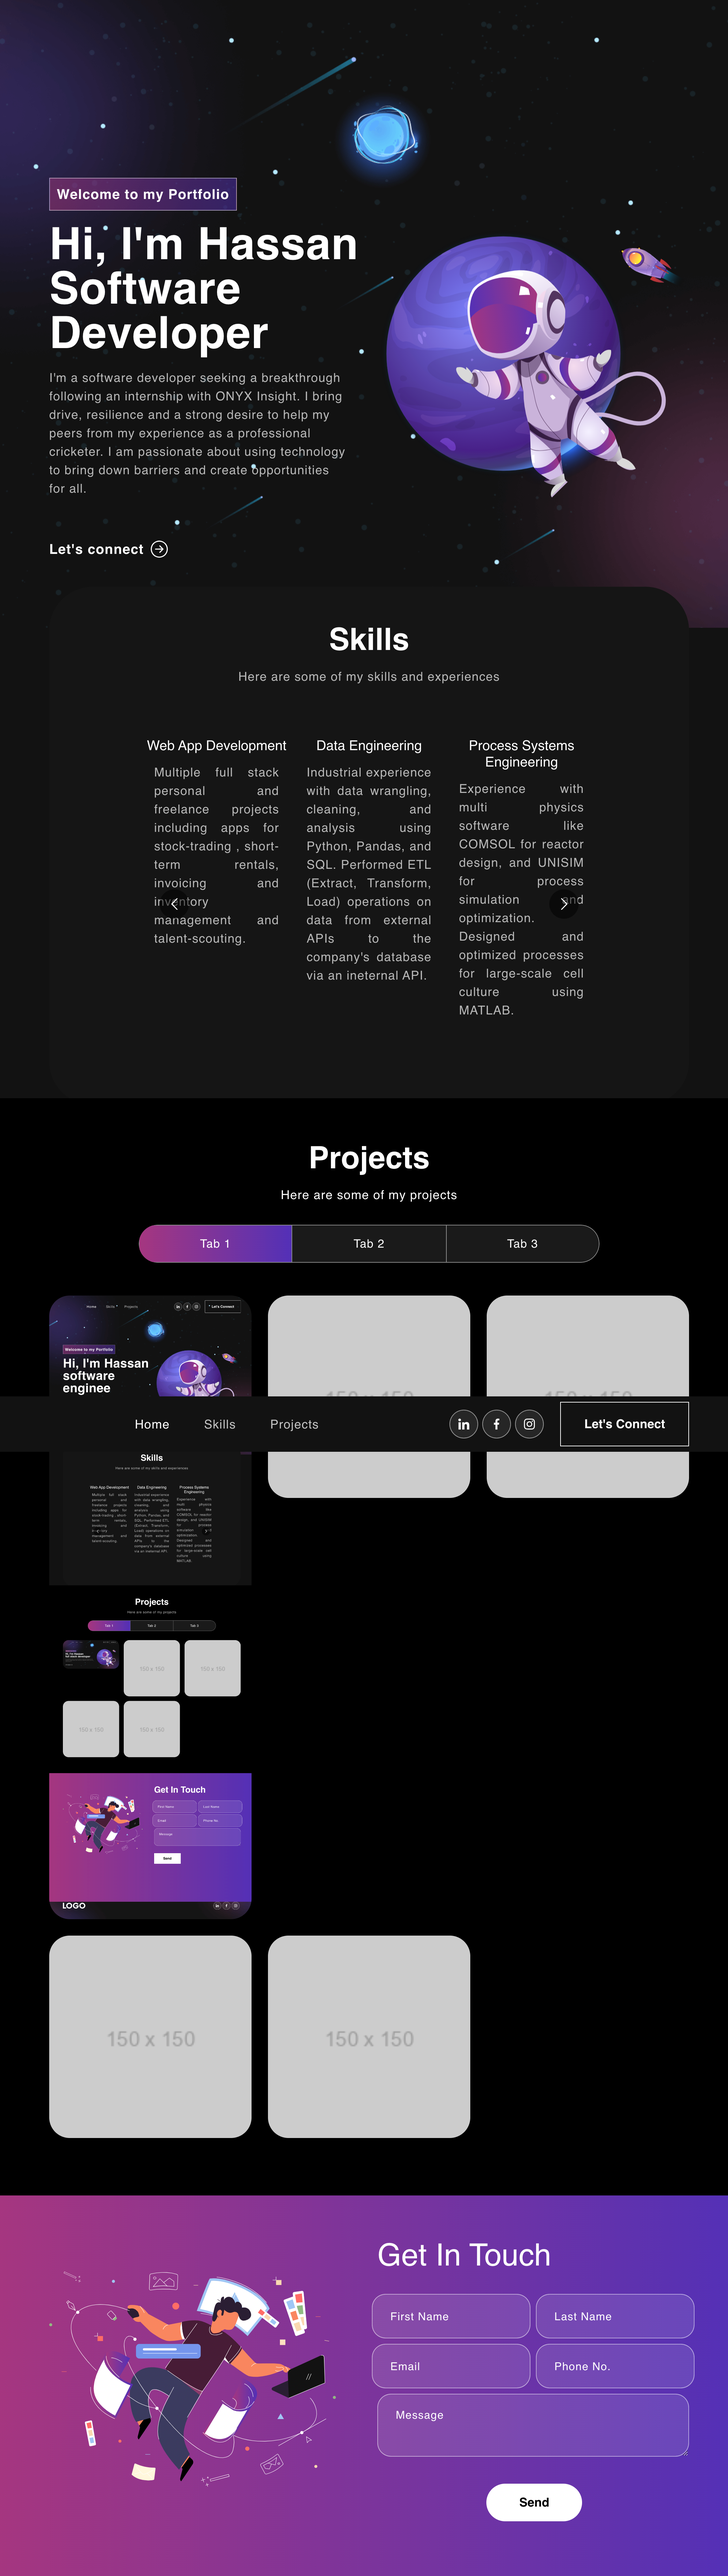
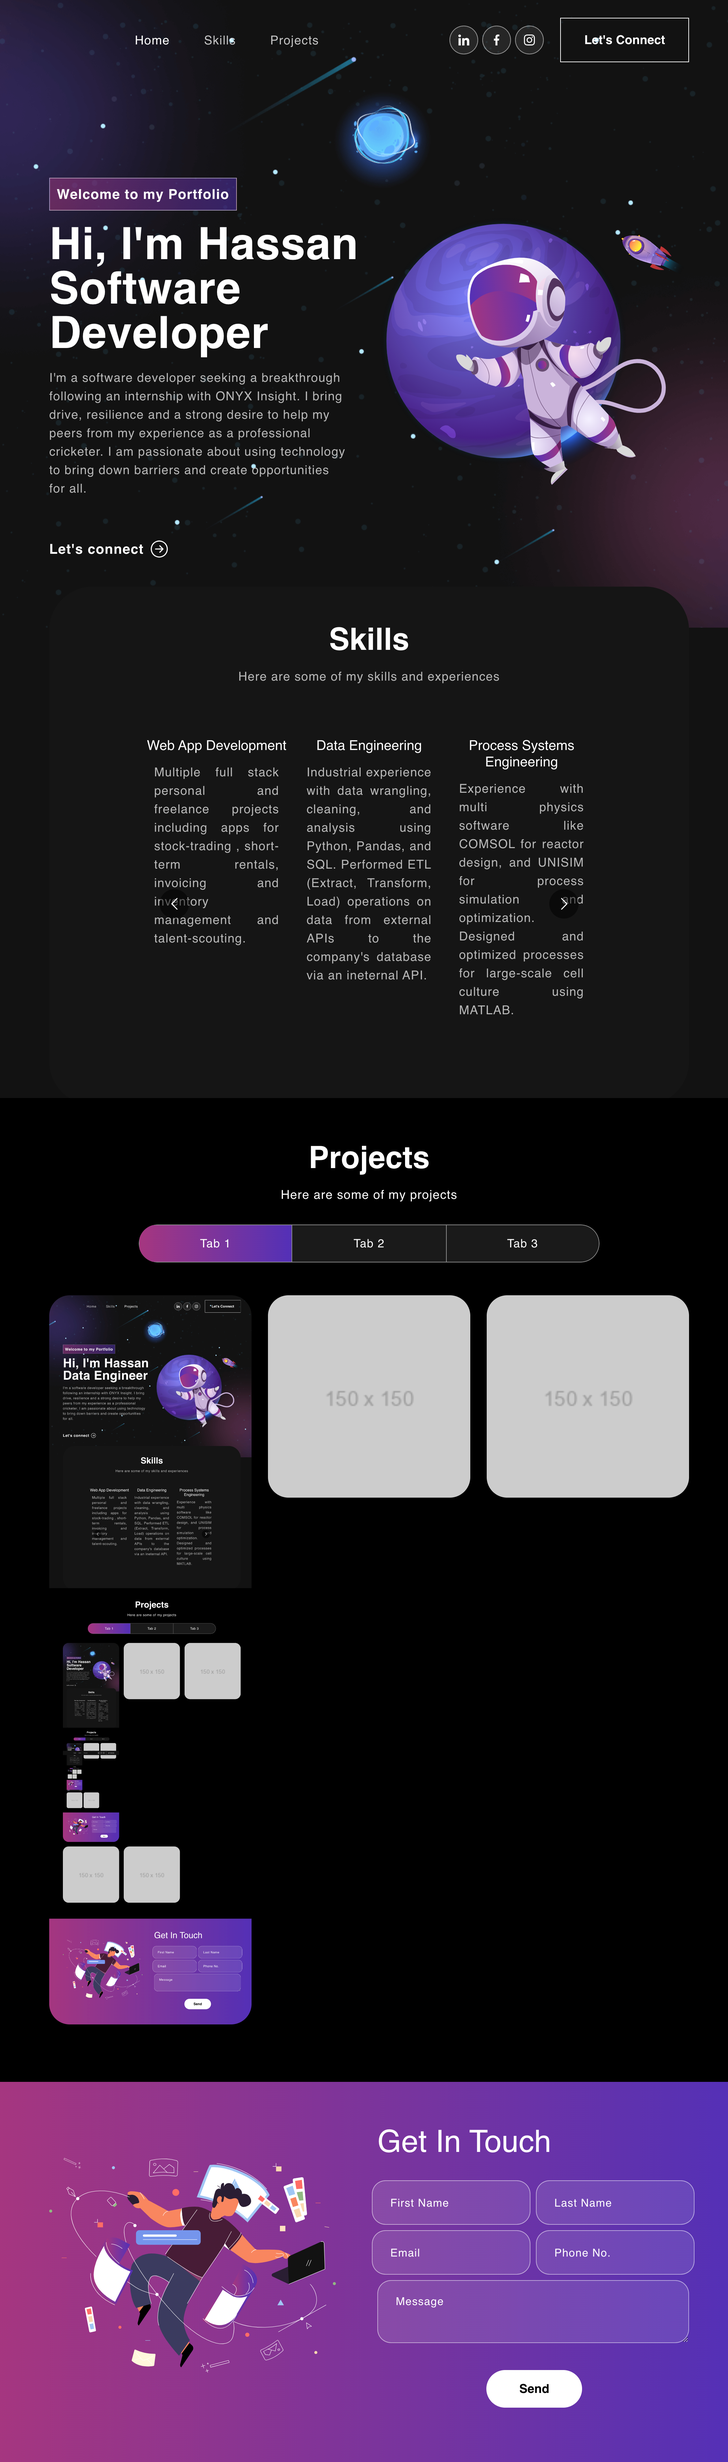
sorted out project tabs

diff --git a/src/components/Projects.js b/src/components/Projects.js
@@ -3,7 +3,7 @@ import ProjectCard from './ProjectCard';
 import portfolio from '../assets/img/portfolio.png';
 
 function Projects() {
-  const projects = [
+  const projectsTab1 = [
     {
       title: "Portfolio",
       description: "A single page platform to showcase my projects.",
@@ -28,6 +28,9 @@ function Projects() {
       live: "",
       image: "https://via.placeholder.com/150"
     },
+  ];
+
+  const projectsTab2 = [
     {
       title: "South Asian Cricket Academy",
       description: "A talent scouting app with an e-commerce section for cricket equipment.",
@@ -44,7 +47,7 @@ function Projects() {
       live: "",
       image: "https://via.placeholder.com/150"
     },
-  ]
+  ];
 
   return (
     <section className="project" id="project">
@@ -69,7 +72,7 @@ function Projects() {
                 <Tab.Pane eventKey="first">
                   <Row>
                     {
-                      projects.map((project, index) => {
+                      projectsTab1.map((project, index) => {
                         return (
                           <ProjectCard
                             key={index}
@@ -86,7 +89,23 @@ function Projects() {
                   </Row>
                 </Tab.Pane>
                 <Tab.Pane eventKey="second">
-                    Lorem Ipsum
+                <Row>
+                    {
+                      projectsTab2.map((project, index) => {
+                        return (
+                          <ProjectCard
+                            key={index}
+                            title={project.title}
+                            description={project.description}
+                            stack={project.stack}
+                            github={project.github}
+                            live={project.live}
+                            image={project.image}
+                          /> 
+                        )
+                      })
+                    }
+                  </Row>
                 </Tab.Pane>
                 <Tab.Pane eventKey="third">
                     Lorem Ipsum

diff --git a/src/App.js b/src/App.js
@@ -5,7 +5,6 @@ import Banner from './components/Banner';
 import Skills from './components/Skills';
 import Projects from './components/Projects';
 import Contact from './components/Contact';
-import Footer from './components/Footer';
 
 import 'bootstrap/dist/css/bootstrap.min.css';
 
